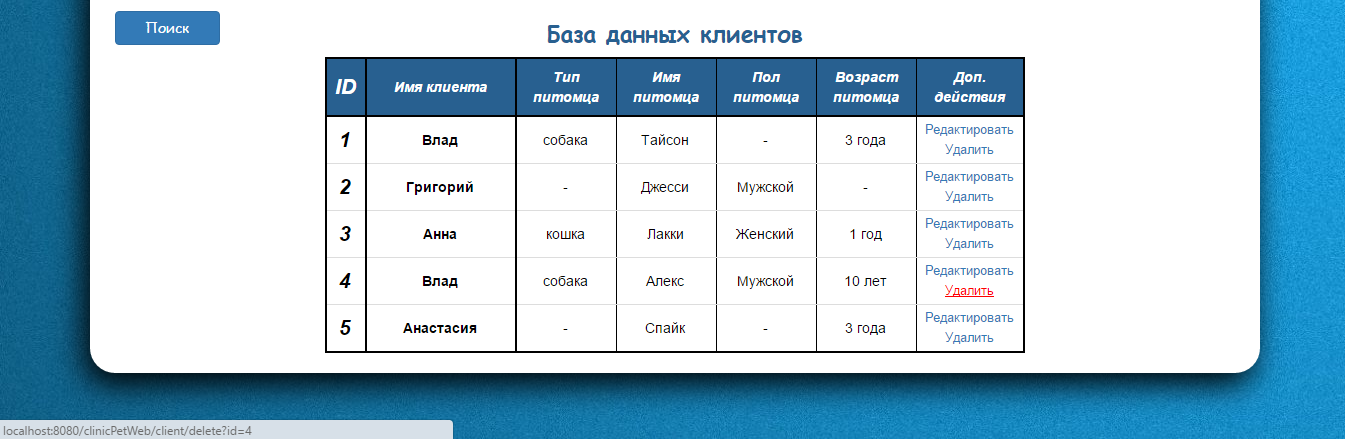
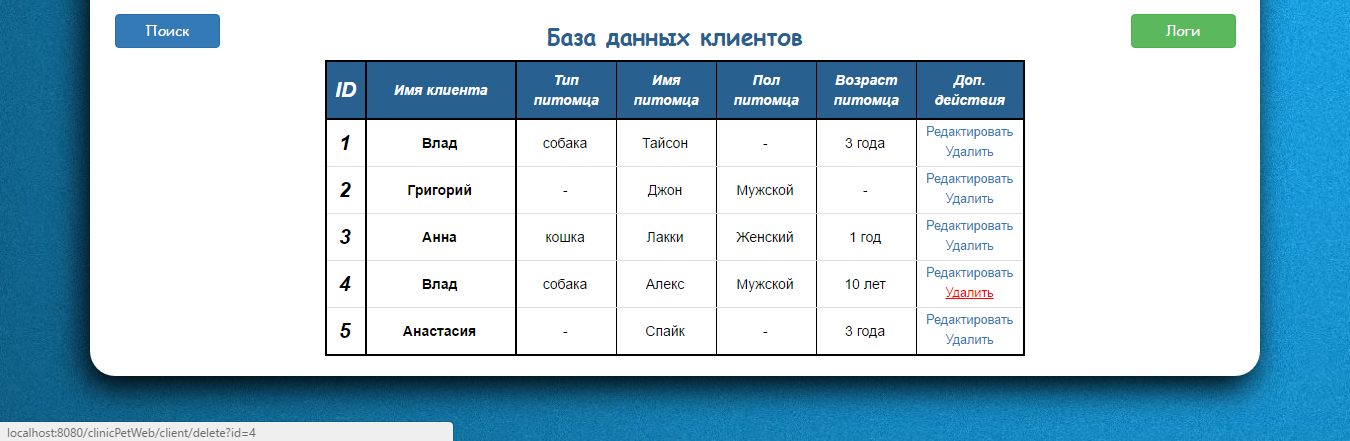
New screenshots

diff --git a/ClinicPetWeb/src/main/webapp/css/editStyle.css b/ClinicPetWeb/src/main/webapp/css/editStyle.css
@@ -84,6 +84,24 @@ form input {
     clear: both;
 }
 
+#btn-style {
+    /* Возможные параметры: <сдвиг по x>
+    <сдвиг по y> <радиус размытия>
+    <растяжение> <цвет>
+    */
+    -moz-box-shadow: 1.5px 3px 1px #1D4568;
+    -webkit-box-shadow: 1.5px 3px 1px #1D4568;
+    box-shadow: 1.5px 3px 1px #1D4568;
+    transition: 0.5s;
+}
+
+#btn-style:hover {
+    -moz-box-shadow: 0 0 0 #1D4568;
+    -webkit-box-shadow: 0 0 0 #1D4568;
+    box-shadow: 0 0 0 #1D4568;
+    transition: 1s;
+}
+
 form input:first-child {
     margin: 0 0 11px 156px;
 }

diff --git a/ClinicPetWeb/README.md b/ClinicPetWeb/README.md
@@ -1,24 +1,21 @@
 Веб-клиника домашних животных
------------------------------------
-___________________________________
-___________________________________
+=============================
 
 Главная страница
------------------------------------
-___________________________________
+----------------
+
 ![CC0](https://github.com/Panchenko-Vlad/java-lessons/blob/master/ClinicPetWeb/src/main/java/Screenshots/index.png)
 
 Валидация формы
------------------------------------
-___________________________________
+---------------
+
 Обязательные поля для ввода: Имя клиента и имя питомца
 ![CC0](https://github.com/Panchenko-Vlad/java-lessons/blob/master/ClinicPetWeb/src/main/java/Screenshots/validation1.png)
 
 ![CC0](https://github.com/Panchenko-Vlad/java-lessons/blob/master/ClinicPetWeb/src/main/java/Screenshots/validation2.png)
 
 Добавление клиентов
------------------------------------
-___________________________________
+-------------------
 
 Вносим данные:
 ![CC0](https://github.com/Panchenko-Vlad/java-lessons/blob/master/ClinicPetWeb/src/main/java/Screenshots/addClients1.png)
@@ -30,8 +27,7 @@ ___________________________________
 ![CC0](https://github.com/Panchenko-Vlad/java-lessons/blob/master/ClinicPetWeb/src/main/java/Screenshots/addClients3.png)
 
 Редактирование данных
------------------------------------
-___________________________________
+---------------------
 
 Выбираем клиента под номером "3" и нажимаем "Редактировать" в столбце "Доп. действия" :
 ![CC0](https://github.com/Panchenko-Vlad/java-lessons/blob/master/ClinicPetWeb/src/main/java/Screenshots/edit1.png)
@@ -46,15 +42,14 @@ ___________________________________
 ![CC0](https://github.com/Panchenko-Vlad/java-lessons/blob/master/ClinicPetWeb/src/main/java/Screenshots/edit4.png)
 
 Поиск клиентов
------------------------------------
-___________________________________
+--------------
 
 Нажимаем слева на кнопку "Поиск" и переходим по ссылке:
 ![CC0](https://github.com/Panchenko-Vlad/java-lessons/blob/master/ClinicPetWeb/src/main/java/Screenshots/search1.png)
 
-___________________________________
+__________________________________________________________________________________________________
 Заранее скажу, что заполнить нужно хотя бы одно поле из четырёх, иначе кнопка будет заблокирована.
-___________________________________
+__________________________________________________________________________________________________
 
 Введем ID клиента :
 ![CC0](https://github.com/Panchenko-Vlad/java-lessons/blob/master/ClinicPetWeb/src/main/java/Screenshots/search2.png)
@@ -75,11 +70,10 @@ ___________________________________
 ![CC0](https://github.com/Panchenko-Vlad/java-lessons/blob/master/ClinicPetWeb/src/main/java/Screenshots/search7.png)
 
 Нажимаем в верхнем левом углу на кнопку "Вернуться"
-___________________________________
+___________________________________________________
 
 Удаление клиентов
------------------------------------
-___________________________________
+-----------------
 
 Выбираем клиента под номером "4" и в столбце "Доп. действия" нажимаем "Удалить" :
 ![CC0](https://github.com/Panchenko-Vlad/java-lessons/blob/master/ClinicPetWeb/src/main/java/Screenshots/delete1.png)
@@ -90,17 +84,24 @@ ___________________________________
 Убеждаемся, что клиентов осталось три:
 ![CC0](https://github.com/Panchenko-Vlad/java-lessons/blob/master/ClinicPetWeb/src/main/java/Screenshots/delete3.png)
 
-___________________________________
+____________________________________________________
 Также в проекте частично был использован Bootstrap 3
-___________________________________
+____________________________________________________
 
-Тесты
------------------------------------
-___________________________________
-![CC0](https://github.com/Panchenko-Vlad/java-lessons/blob/master/ClinicPetWeb/src/main/java/Screenshots/test1.png)
+Логи
+----
 
-![CC0](https://github.com/Panchenko-Vlad/java-lessons/blob/master/ClinicPetWeb/src/main/java/Screenshots/test2.png)
+Ссылка сразу на все логи имеющие уровень INFO и выше:
+![CC0](https://github.com/Panchenko-Vlad/java-lessons/blob/master/ClinicPetWeb/src/main/java/Screenshots/logging1.png)
+
+Логи уровня WARN и выше:
+![CC0](https://github.com/Panchenko-Vlad/java-lessons/blob/master/ClinicPetWeb/src/main/java/Screenshots/logging1.png)
+
+Логи уровня ERROR и выше:
+![CC0](https://github.com/Panchenko-Vlad/java-lessons/blob/master/ClinicPetWeb/src/main/java/Screenshots/logging1.png)
+
+Логи уровня FATAL:
+![CC0](https://github.com/Panchenko-Vlad/java-lessons/blob/master/ClinicPetWeb/src/main/java/Screenshots/logging1.png)
 
 Конец
------------------------------------
-___________________________________
+=====
